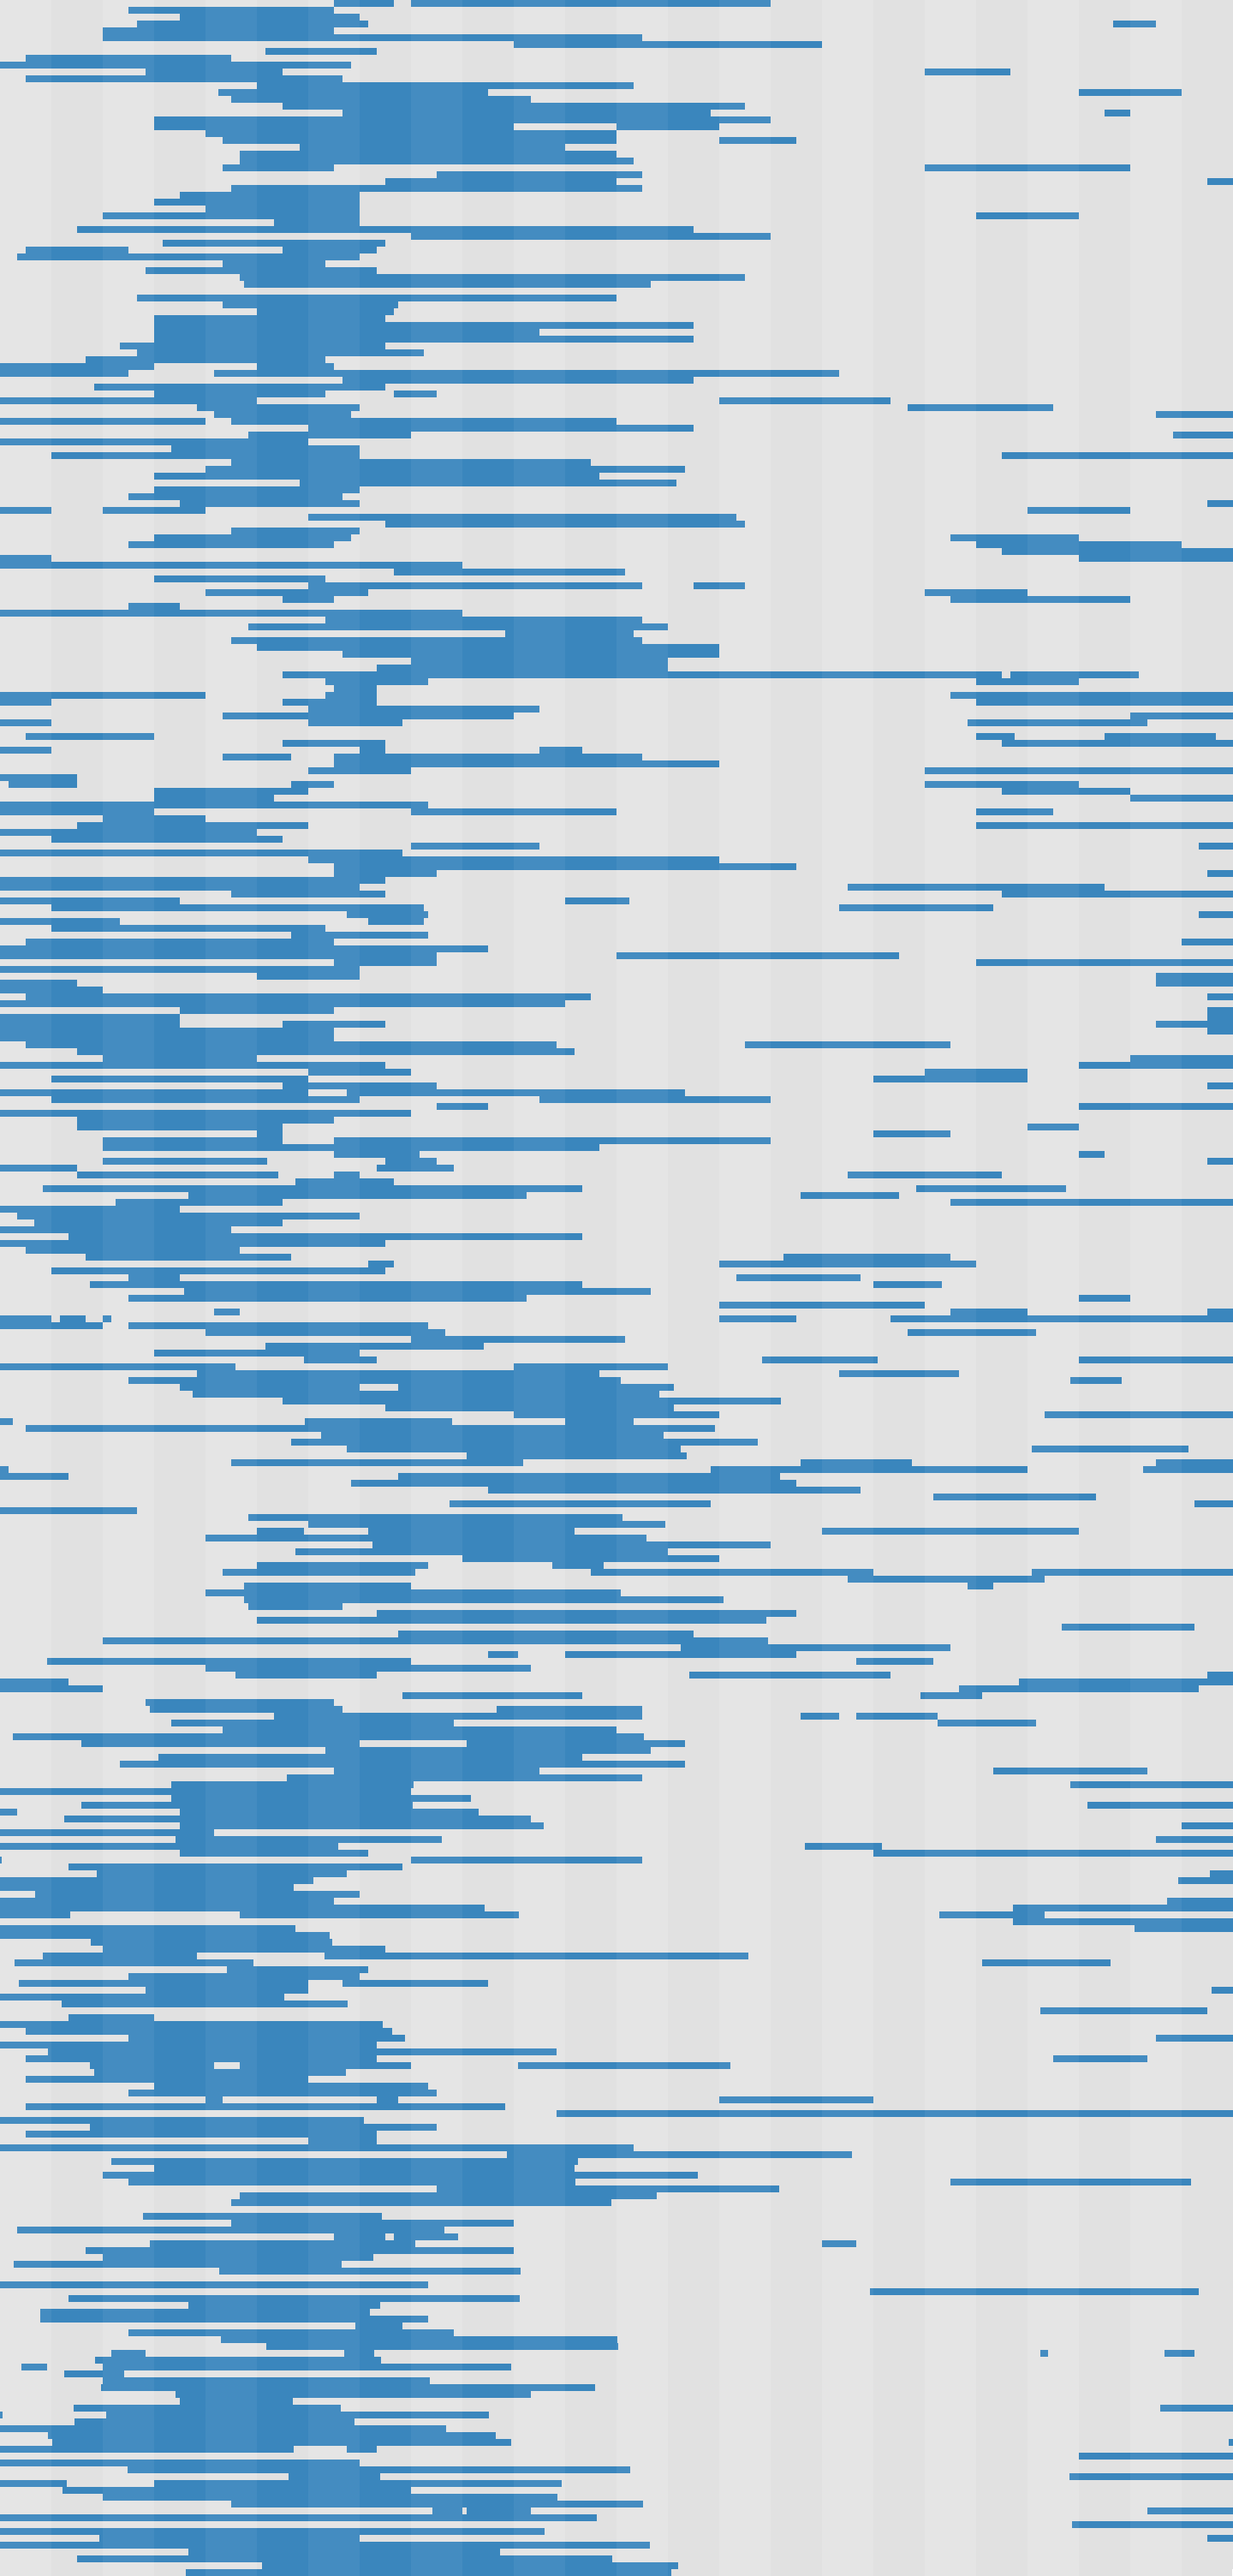
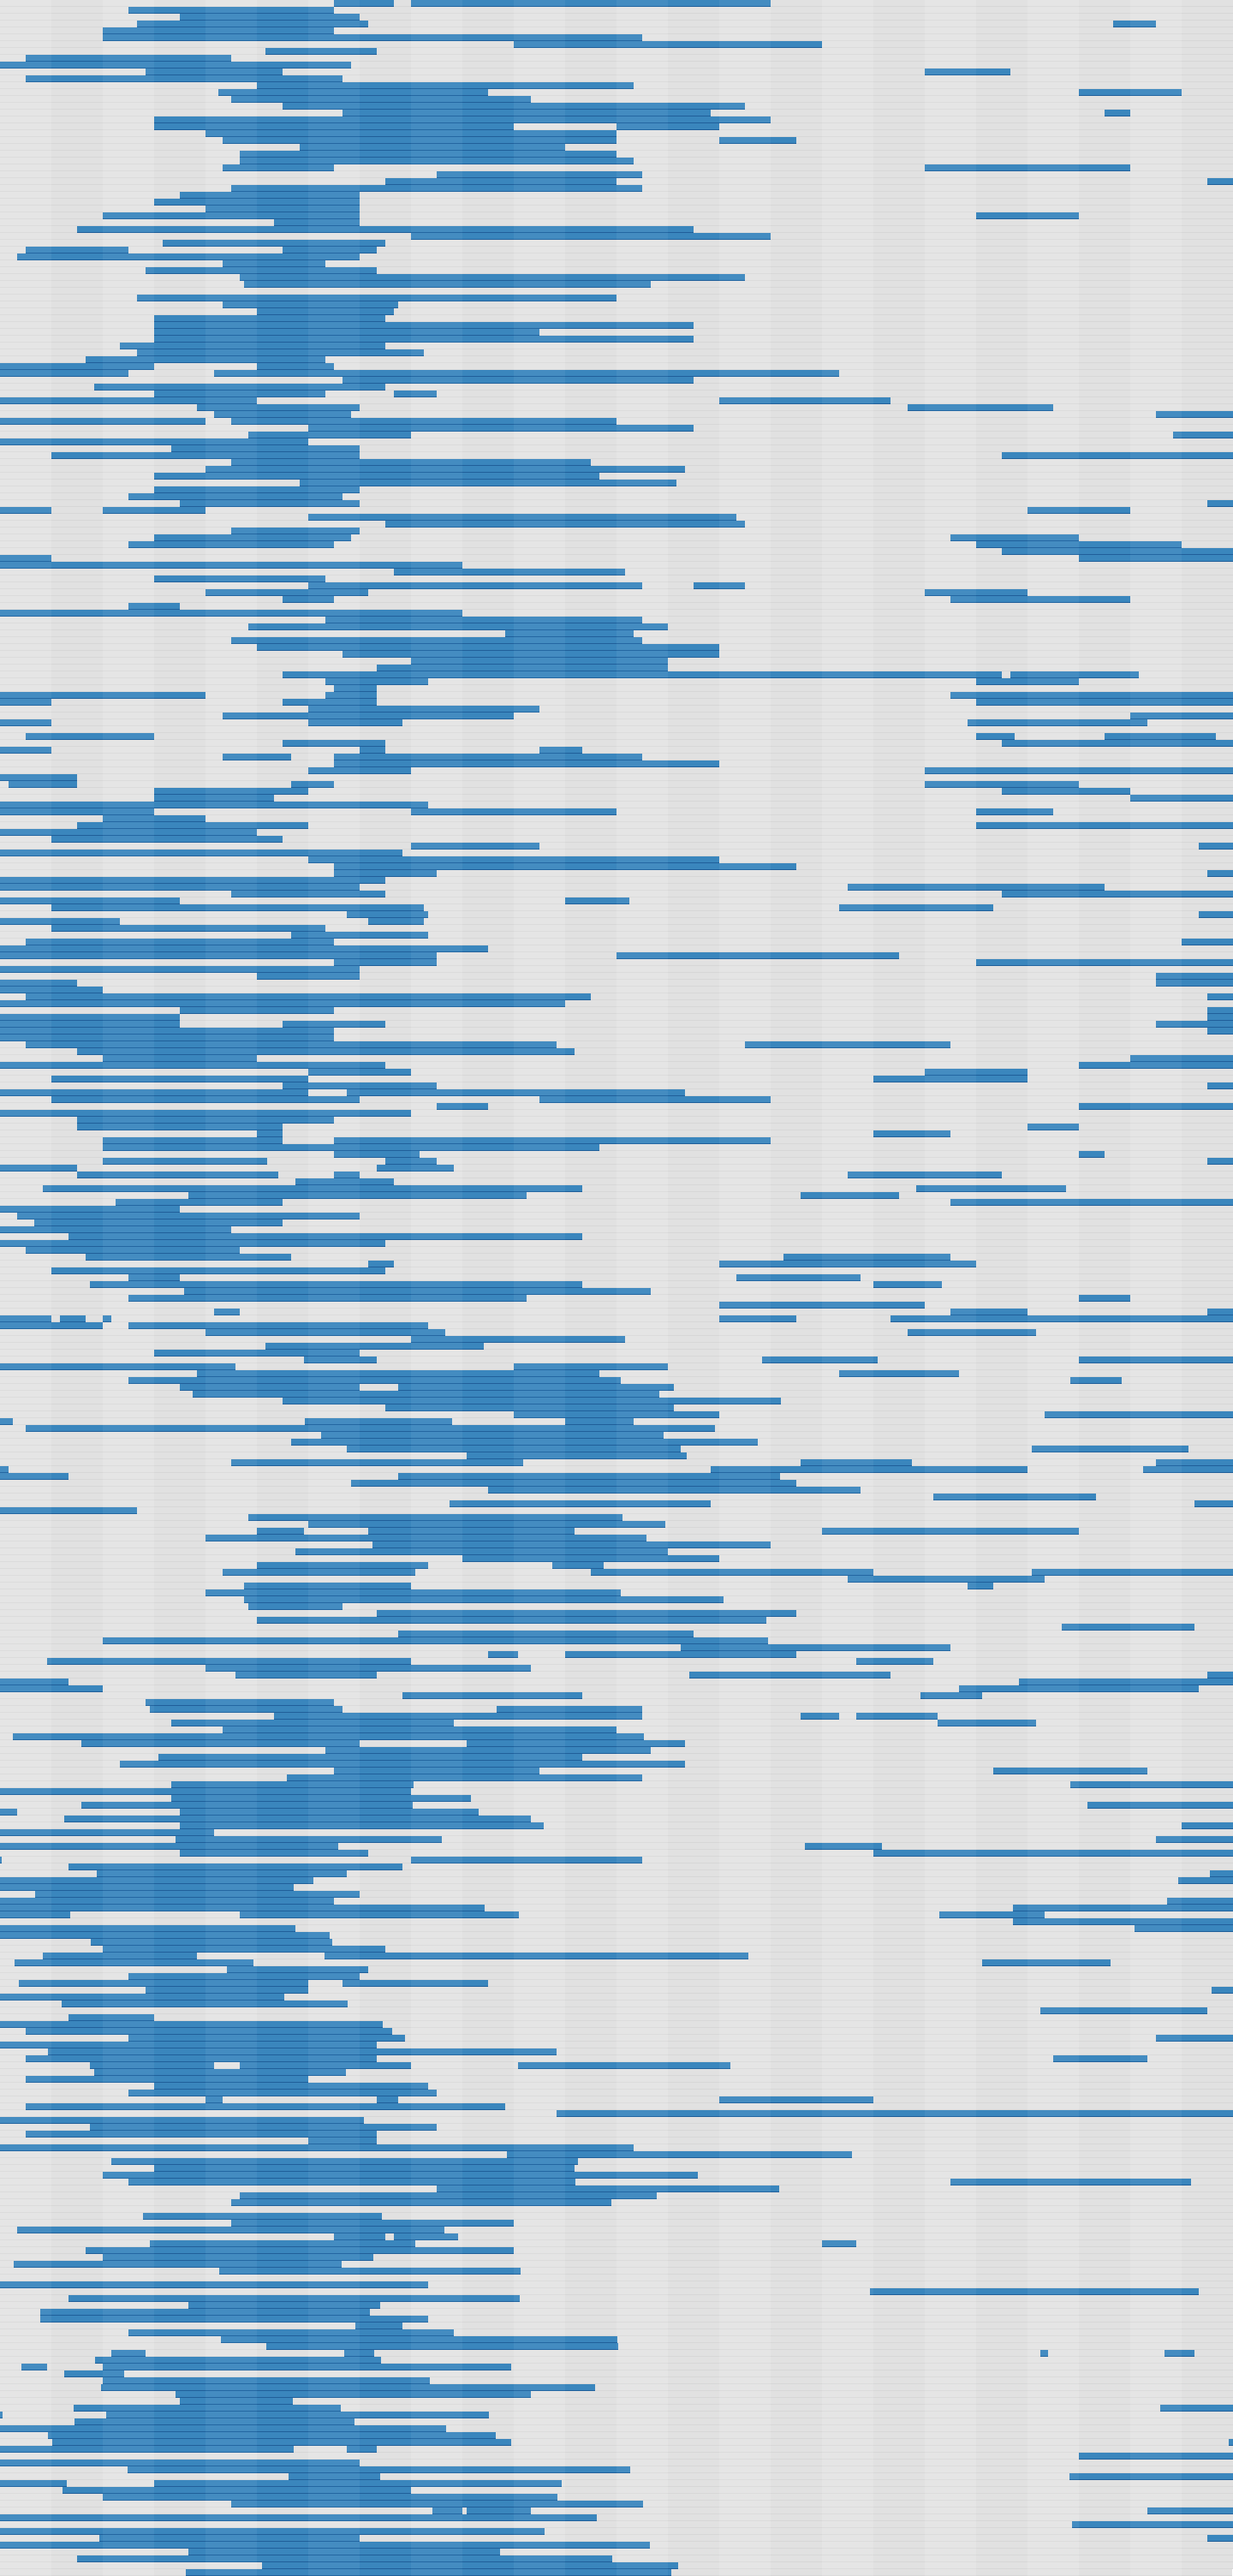
shading

diff --git a/py/analyze.py b/py/analyze.py
@@ -1,4 +1,3 @@
-import datetime
 from datetime import timedelta
 import dateutil.parser
 from PIL import Image, ImageDraw
@@ -22,9 +21,9 @@ i = 0
 instance = data[i]
 while time != end:
     if (time - instance[0]).total_seconds() >= 0 and (time - instance[1]).total_seconds() < 0:
-        color, shade = [(68,140,193),(58,134,189)], [(68,140,193),(58,134,189)]
+        color, shade = [(68,140,193),(58,134,189)], [(36,103,162),(32,95,154)]
     else:
-        color, shade = [(229,229,229),(225,225,225)], [(229,229,229),(225,225,225)]
+        color, shade = [(229,229,229),(225,225,225)], [(220,220,220),(215,215,215)]
         if (time - instance[1]).total_seconds() >= 0 and i < len(data)-1:
             i += 1
             instance = data[i]
